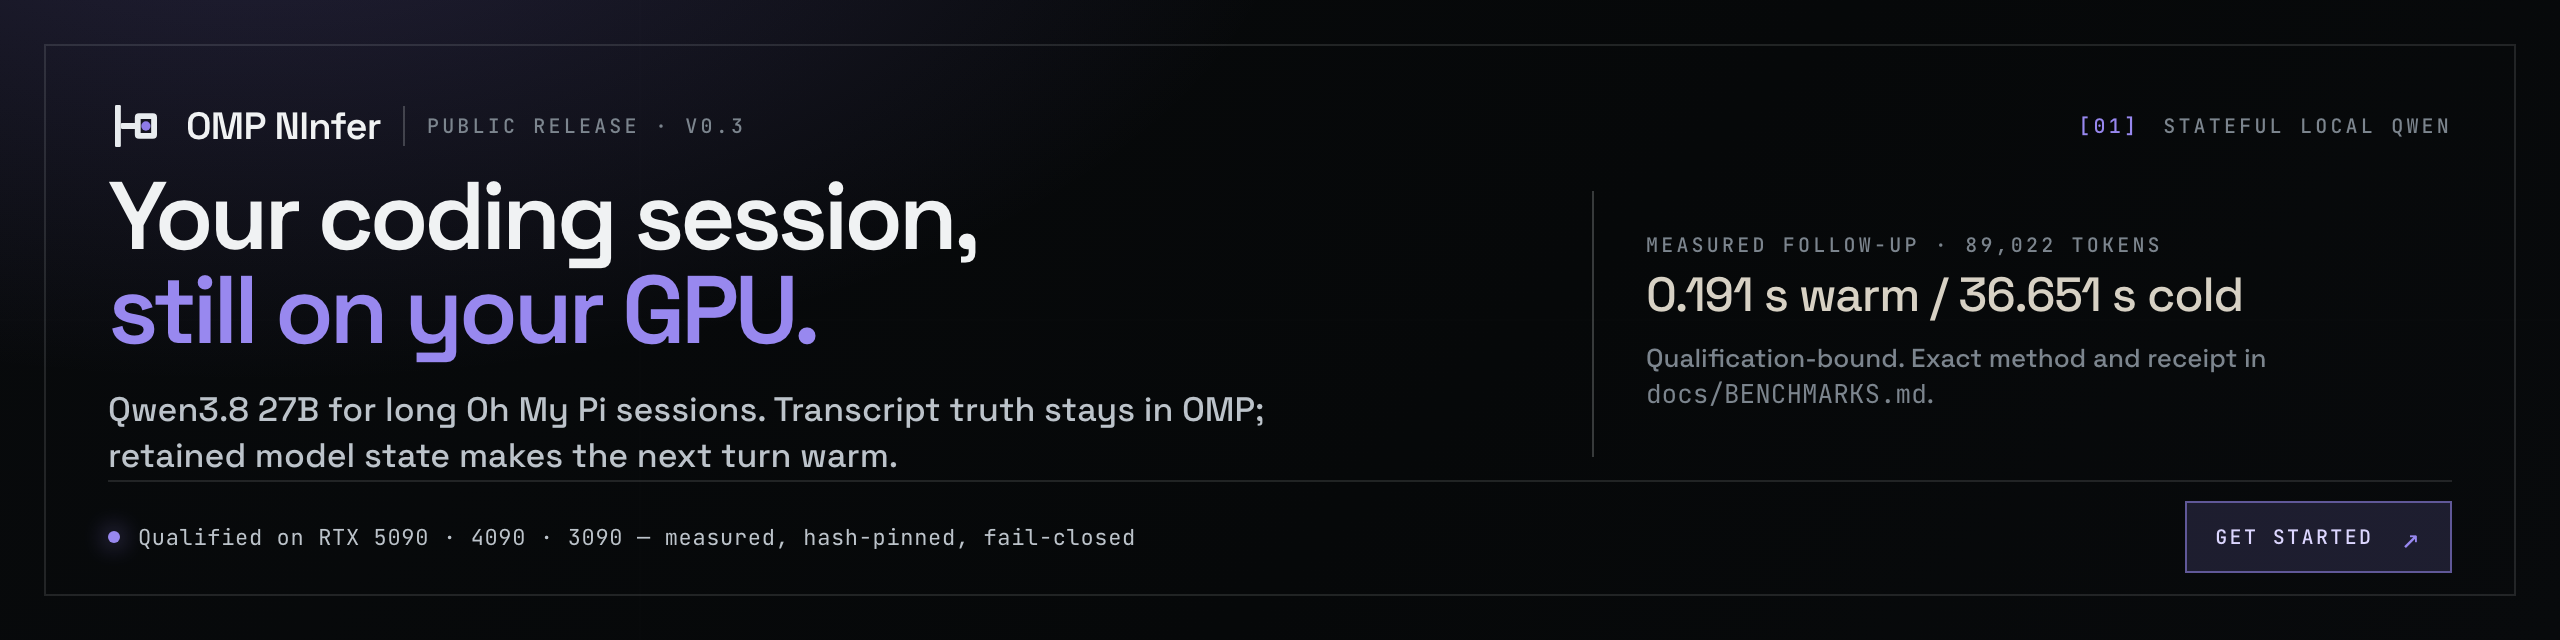
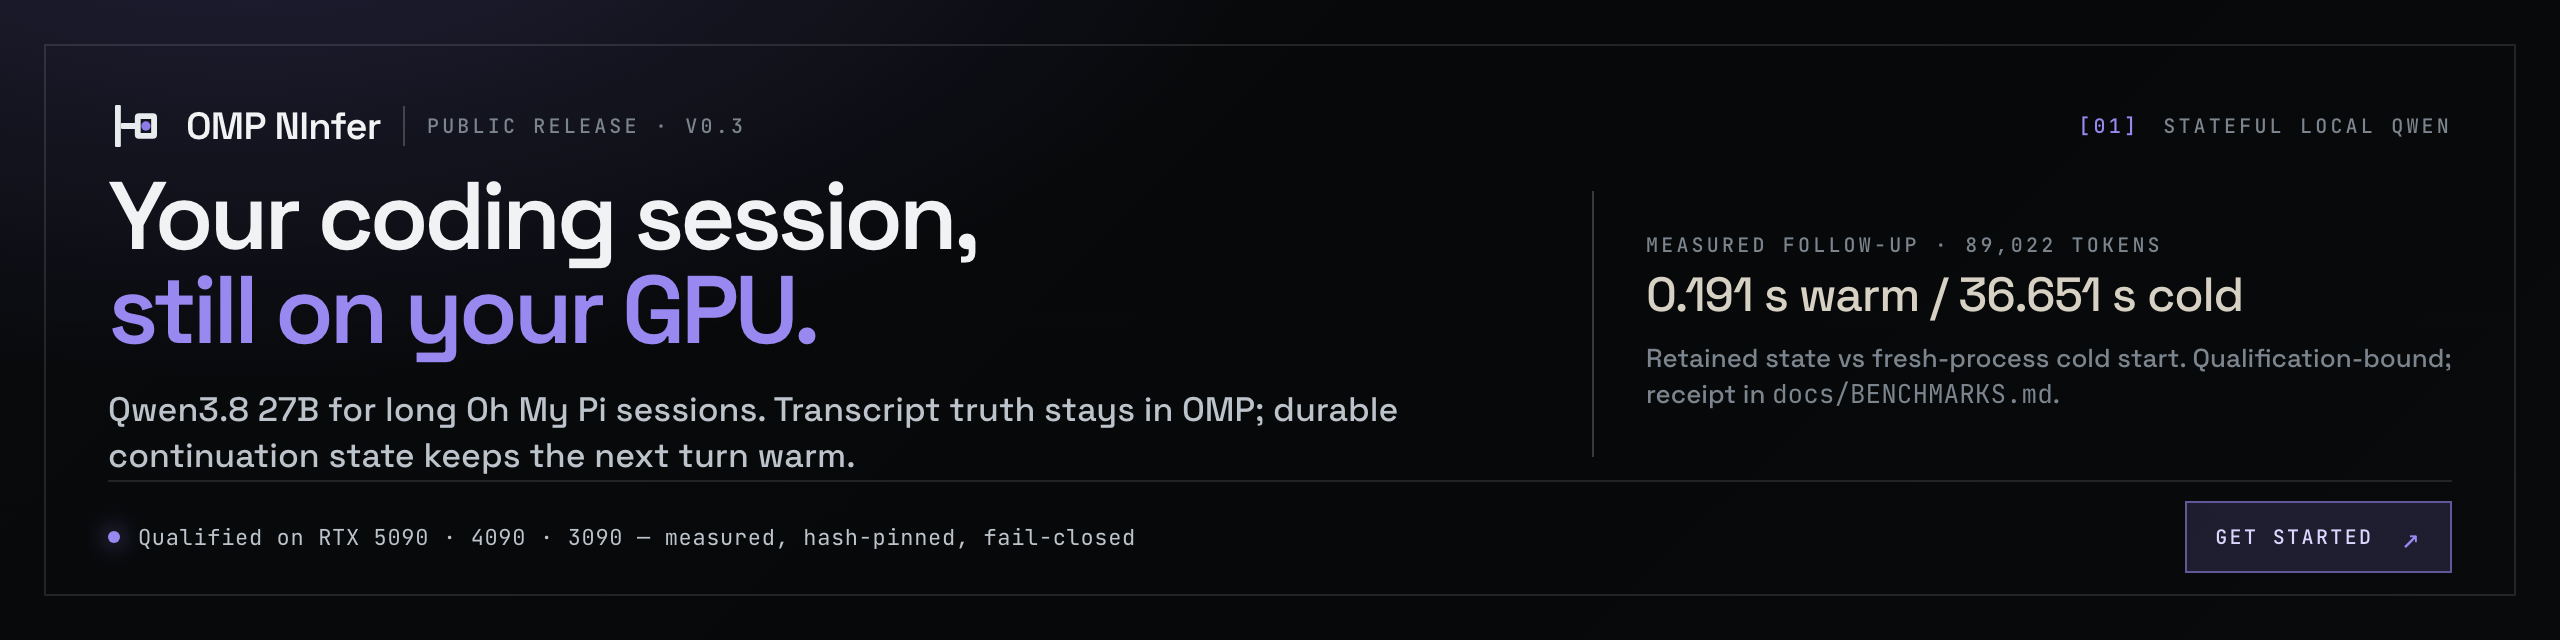
docs(positioning): claim durable continuation, concede in-process prefix caching

Changed region(s): [[0.625, 0.5312, 0.9688, 0.6562], [0.0312, 0.6875, 0.3438, 0.75], [0.5, 0.625, 0.5625, 0.6562]]

diff --git a/assets/chart-warm-cold.html b/assets/chart-warm-cold.html
@@ -36,12 +36,12 @@
     <div class="eyebrow">Lower is better</div>
   </div>
   <div class="main">
-    <div class="title">Warm follow-ups continue from retained GPU state.<span>Cold equivalents re-prefill the full session.</span></div>
+    <div class="title">Warm follow-ups continue from retained GPU state.<span>Cold = fresh process, no cache: the full session re-prefills.</span></div>
     <div class="session">
       <div class="bars">
         <div class="label">89,022-token session</div>
         <div class="row hot"><div class="bar warm" style="width: 6px;"></div><div class="value">0.191 s<small>warm · previous_response_id</small></div></div>
-        <div class="row"><div class="bar cold" style="width: 86%;"></div><div class="value">36.651 s<small>cold · full re-prefill</small></div></div>
+        <div class="row"><div class="bar cold" style="width: 86%;"></div><div class="value">36.651 s<small>cold · fresh process</small></div></div>
       </div>
       <div class="ratio"><strong>~192×</strong><span>faster first token</span></div>
     </div>
@@ -49,7 +49,7 @@
       <div class="bars">
         <div class="label">28,535-token session</div>
         <div class="row hot"><div class="bar warm" style="width: 4px;"></div><div class="value">0.126 s<small>warm · previous_response_id</small></div></div>
-        <div class="row"><div class="bar cold" style="width: 22.8%;"></div><div class="value">9.719 s<small>cold · full re-prefill</small></div></div>
+        <div class="row"><div class="bar cold" style="width: 22.8%;"></div><div class="value">9.719 s<small>cold · fresh process</small></div></div>
       </div>
       <div class="ratio"><strong>~77×</strong><span>faster first token</span></div>
     </div>

diff --git a/assets/og.html b/assets/og.html
@@ -37,7 +37,7 @@
     <div>
       <div class="eyebrow">Stateful Qwen3.8 for Oh My Pi</div>
       <h1>Continue the session.<br><span>Not the transcript.</span></h1>
-      <div class="subtitle">Long coding turns stay warm on a GPU you own. OMP keeps the truth; NInfer keeps the acceleration.</div>
+      <div class="subtitle">Durable session state on a GPU you own. OMP keeps the truth; NInfer keeps the continuation.</div>
     </div>
     <div class="signal" aria-label="Illustration of retained private model state">
       <div class="axis"></div><div class="ring r1"></div><div class="ring r2"></div><div class="ring r3"></div><div class="core"></div>
@@ -45,7 +45,7 @@
     </div>
   </div>
   <div class="bottom">
-    <div class="proof"><strong>0.191 s warm</strong><span>vs 36.651 s cold · one 89,022-token session</span></div>
+    <div class="proof"><strong>0.191 s warm</strong><span>vs 36.651 s cold start · one 89,022-token session</span></div>
     <div class="cta"><span>Get started</span><b>↗</b></div>
   </div>
 </div>

diff --git a/assets/banner.html b/assets/banner.html
@@ -30,12 +30,12 @@
   <div class="hero">
     <div>
       <h1>Your coding session,<br><span>still on your GPU.</span></h1>
-      <div class="promise">Qwen3.8 27B for long Oh My Pi sessions. Transcript truth stays in OMP; retained model state makes the next turn warm.</div>
+      <div class="promise">Qwen3.8 27B for long Oh My Pi sessions. Transcript truth stays in OMP; durable continuation state keeps the next turn warm.</div>
     </div>
     <div class="proof">
       <div class="eyebrow">Measured follow-up · 89,022 tokens</div>
       <strong>0.191 s warm  /  36.651 s cold</strong>
-      <p>Qualification-bound. Exact method and receipt in <span class="mono">docs/BENCHMARKS.md</span>.</p>
+      <p>Retained state vs fresh-process cold start. Qualification-bound; receipt in <span class="mono">docs/BENCHMARKS.md</span>.</p>
     </div>
   </div>
   <div class="bottom">

diff --git a/tests/test_public_numbers.py b/tests/test_public_numbers.py
@@ -15,8 +15,9 @@ class PublicNumbersTests(unittest.TestCase):
     def test_predecessor_prefix_hit_is_not_rebound_to_v02(self) -> None:
         readme = (ROOT / "README.md").read_text(encoding="utf-8")
         performance = (ROOT / "docs" / "PERFORMANCE.md").read_text(encoding="utf-8")
-        self.assertIn("predecessor v0.1 campaign", readme)
-        self.assertIn("not rebind that numeric result", readme)
+        if "37,591" in readme:
+            self.assertIn("predecessor v0.1 campaign", readme)
+            self.assertIn("not rebind that numeric result", readme)
         self.assertIn("not rebound as a v0.2 numeric claim", performance)
 
     @classmethod

diff --git a/README.md b/README.md
@@ -4,13 +4,14 @@
 
 # OMP NInfer
 
-**Stateful local Qwen for long OMP coding sessions.**
+**Durable session state on your GPU.**
 
 **Qualified on RTX 5090 · 4090 · 3090**
 
 If you use [Oh My Pi](https://github.com/can1357/oh-my-pi) and own an RTX 5090, 4090, or 3090,
-OMP NInfer keeps Qwen3.8 27B and the live session state on your GPU. Warm follow-ups continue from
-retained state instead of re-prefilling the full transcript.
+OMP NInfer keeps Qwen3.8 27B and your session's continuation state on your GPU — as an explicit,
+durable primitive, not a lucky prefix-cache hit. Follow-ups continue from state addressed by
+lineage, and on the native Windows lanes that state survives process restarts.
 
 **[Get started](docs/QUICKSTART.md)**
 
@@ -46,7 +47,7 @@ fail-closed instead of cloud fallback · every byte hash-pinned</sub>
 
 | What changes for you | Released evidence |
 | --- | --- |
-| Long-session follow-ups can start without a full re-prefill | Qualification-bound 89,022-token follow-up: **0.191 s warm vs 36.651 s cold** |
+| Retained state outlives the turn — the cold start is what you skip | Qualification-bound 89,022-token follow-up: **0.191 s warm (retained state) vs 36.651 s cold (fresh process, no cache)** |
 | Interactive output is fast | **240.30 tok/s** decode on the qualified RTX 5090 profile |
 | Long coding sessions fit | Exact retrieval at a **130,048-token** prompt; 131,072-token ceiling |
 | The route does not escape to cloud | Loopback-only, bearer-authenticated, fail-closed; acceptance-tested |
@@ -69,23 +70,44 @@ serving, or generic OpenAI-compatible inference.
 > latest published release and its exact manifest/profile.
 > Details: [release status](docs/RELEASES.md) · [compatibility matrix](docs/COMPATIBILITY.md).
 
+## What this is — and isn't
+
+A live [ninfer](https://github.com/Neroued/ninfer) or llama.cpp process with prefix caching
+already avoids recomputing an append-only prefix — the engine this project ships does it too
+(`prefix_reuse` is enabled in every shipped profile). If a warm in-process cache on a live server
+is all you need, that works today without OMP NInfer.
+
+What this project adds is continuation as an **explicit, transactional, durable** primitive
+rather than an implicit longest-prefix match. OMP tracks the Responses lineage end to end —
+`previous_response_id`, forks, rollback — and on the RTX 4090 and 3090 native Windows lanes the
+continuation (session state plus its required KV) is checkpointed to disk and restored after
+process death: [102,075 tokens restored on the
+4090](releases/v0.2.0-beta.1/qualification/rtx4090.json), [310 MB checkpoint restore on the
+3090](docs/measurements/2026-08-30-rtx3090-parity.json). A prefix cache cannot outlive its
+process; a checkpoint can.
+
+Next on the [roadmap](ROADMAP.md): portable checkpoints — store them on shared storage, restore
+the session on another compatible machine — which in-process caches structurally cannot do.
+
 ## Why this exists
 
 Serious OMP coding sessions run long: 100K-token transcripts, thinking, tool calls, images. Routed
 to a cloud provider, every one of those tokens is metered and every file leaves your machine.
-Routed to a typical local OpenAI-compatible server, the API is stateless — each turn re-sends and
-re-prefills the whole transcript, and reuse of prior computation is a best-effort cache guess.
+Routed to a typical local OpenAI-compatible server, the API is stateless — each turn re-sends the
+whole transcript, and while a live server's prefix cache usually avoids recomputing an append-only
+prefix, that reuse is an implicit longest-prefix guess that dies with the process.
 
 OMP NInfer ships the third option as a small set of qualified lanes — OMP, the
 [NInfer](https://github.com/Neroued/ninfer) engine, and one pinned Qwen3.8 27B artifact on an
 RTX 5090, RTX 4090, or RTX 3090 — with three properties the exact qualified releases do not
 give you together elsewhere:
 
-1. **Session state lives on your GPU.** OMP drives NInfer through stateful OpenAI Responses
-   (`previous_response_id`). A follow-up turn continues from retained GPU state instead of
-   re-prefilling the session. The predecessor v0.1 campaign observed a 37,591-token prefix hit, but
-   v0.2 does not rebind that numeric result. OMP commits its transcript before
-   advancing provider state, so losing the cache degrades to a replay, never a broken session.
+1. **Continuation is explicit and durable, not guessed.** OMP drives NInfer through stateful
+   OpenAI Responses (`previous_response_id`): continuation is addressed by transactional lineage —
+   forks and rollback qualified — instead of inferred by longest-prefix matching, and on the
+   native Windows lanes the continuation is checkpointed and survives process restarts. OMP
+   commits its transcript before advancing provider state, so losing retained state degrades to a
+   replay, never a broken session.
 2. **Private and fail-closed.** Both endpoints bind loopback only; the route is
    bearer-authenticated; the shipped OMP configuration disables model fallback. When your GPU is
    unreachable, the turn fails with an error — it is never silently answered by a cloud model.
@@ -174,7 +196,7 @@ why no second gateway sits between OMP and NInfer: [Related work](docs/RELATED_W
 | | OMP NInfer | [Ollama](https://ollama.com) | [LM Studio](https://lmstudio.ai) | [llama.cpp server](https://github.com/ggml-org/llama.cpp/tree/master/tools/server) | [vLLM](https://github.com/vllm-project/vllm) |
 | --- | --- | --- | --- | --- | --- |
 | What it is | A small closed set of qualified OMP + runtime + model + GPU combinations with receipts | General local runtime with a large model library | Desktop app plus headless daemon with a large model catalog | General GGUF serving with the broadest hardware reach | High-throughput general serving engine |
-| Session state across OMP turns | Stateful Responses owned end to end: transcript commits first, GPU-resident baseline advances second; survives OMP exit/resume; forks qualified | Stateless per request; transcript re-sent; internal caching best-effort | Stateless per request; chat state lives in the client | Stateless per request; per-slot prefix cache reuses matching prefixes | Stateless core with automatic prefix caching; separate Agentic API gateway adds server-side state |
+| Session state across OMP turns | Stateful Responses owned end to end: transcript commits first, GPU-resident baseline advances second; survives OMP exit/resume; forks qualified | Stateless per request; transcript re-sent; in-process prefix reuse avoids recomputing matching prefixes | Stateless per request; chat state lives in the client | Stateless per request; per-slot prefix cache reuses matching prefixes | Stateless core with automatic prefix caching; separate Agentic API gateway adds server-side state |
 | Speculative decoding on the shipped model | Profile-specific: MTP3 on the 5090 and 3090 lanes, MTP0 on the 4090 lane | Model/config dependent | Optional draft-model setups, backend-dependent | Optional draft/ngram setups | Optional |
 | Vision, tools, thinking | Qualified together in one profile | Varies by model | Varies by model; tools and structured output documented | Varies by model and build | Varies by model |
 | Release discipline | Model SHA-256, image OCI digest, SBOM, client checksums, one ready manifest | Rolling releases, mutable tags | Rolling desktop releases | Rolling builds | Rolling releases |

diff --git a/docs/RELATED_WORK.md b/docs/RELATED_WORK.md
@@ -82,6 +82,9 @@ breadth is a feature for a different product boundary, not a deficiency.
 
 ## Prefix and KV reuse
 
+- [Neroued/ninfer](https://github.com/Neroued/ninfer) itself ships in-process prefix reuse
+  (`prefix_reuse`, enabled in every profile this project ships): a live process avoids
+  recomputing an append-only prefix with no OMP NInfer involvement.
 - [vLLM Automatic Prefix Caching](https://docs.vllm.ai/en/latest/features/automatic_prefix_caching/)
   reuses matching prefix blocks inside vLLM.
 - [LMCache](https://github.com/LMCache/LMCache) extends KV reuse and movement across inference
@@ -91,11 +94,14 @@ breadth is a feature for a different product boundary, not a deficiency.
 - [llama.cpp server](https://github.com/ggml-org/llama.cpp/tree/master/tools/server) exposes slots and
   cache-oriented local serving behavior.
 
-Those systems establish extensive KV/prefix-cache prior art. OMP NInfer's relevant distinction is
-ownership and commit ordering: OMP publishes the transcript before committing a provider baseline;
-NInfer's retained state is an acceleration that may be discarded without losing the conversation.
-The user-facing claim is therefore “stop re-prefilling the same long coding session every turn,” not
-“invent persistent KV” or “make inference 100× faster.”
+Those systems establish extensive KV/prefix-cache prior art, and they fully cover the
+live-process append-only case. OMP NInfer's relevant distinction is that continuation is
+explicit, transactional, and durable rather than an implicit longest-prefix match: OMP publishes
+the transcript before committing a provider baseline, lineage (forks, rollback) is addressable
+through `previous_response_id`, and on the native Windows lanes the continuation is checkpointed
+so it survives process death — which an in-process cache structurally cannot. The user-facing
+claim is therefore “keep a long coding session durable and instantly resumable on a GPU you
+own,” not “no re-prefill,” and not “invent persistent KV” or “make inference 100× faster.”
 
 ## Distributed inference control planes
 

diff --git a/BRAND.md b/BRAND.md
@@ -17,7 +17,13 @@ stay retired. Do not reuse them.
 - Repository: `alphastorm/omp-ninfer`
 - Display name: **OMP NInfer** (capital N, capital I)
 - Alternate lockup: **OMP × NInfer** — the × is Local violet, weight 500
-- Tagline: **Stateful local Qwen for long OMP coding sessions.**
+- Tagline: **Durable session state on your GPU.**
+- Positioning rule: never claim "no re-prefill" as the value. In-process prefix caching
+  (upstream ninfer `prefix_reuse`, llama.cpp prompt cache, vLLM APC) already covers the
+  live-process append-only case and is conceded as prior art. The product claim is explicit,
+  transactional, durable continuation — checkpoints that survive process death, portability as
+  the trajectory. Warm/cold figures are always captioned retained state versus fresh-process
+  cold start, never versus an ordinary follow-up.
 - Status grammar: when lane status is stated, write **"Qualified on RTX 5090 · 4090 · 3090"**.
   When install authority matters, bind it to the current ready release (`v0.3.0`) instead of
   restating per-lane caveats inline; per-lane evidence lives in the manifest and benchmarks.
@@ -160,13 +166,13 @@ be labelled as such in the media provenance file; provenance for every demo live
 
 # OMP NInfer
 
-**Stateful local Qwen for long OMP coding sessions.**
+**Durable session state on your GPU.**
 
 **Qualified on RTX 5090 · 4090 · 3090**
 
 If you use [Oh My Pi](https://github.com/can1357/oh-my-pi) and own a qualified RTX card,
-OMP NInfer keeps Qwen3.8 27B and the live session state on your GPU. Warm follow-ups continue from
-retained state instead of re-prefilling the full transcript.
+OMP NInfer keeps Qwen3.8 27B and your session's continuation state on your GPU — as an explicit,
+durable primitive, not a lucky prefix-cache hit.
 
 **[Get started](docs/QUICKSTART.md)**
 

diff --git a/docs/media/README.md b/docs/media/README.md
@@ -91,7 +91,7 @@ lane was still preview-only.
[8 lines of base64/hex data omitted]

diff --git a/docs/BENCHMARKS.md b/docs/BENCHMARKS.md
@@ -86,7 +86,8 @@ Durable process-restart continuation is a native Windows lane property (tables a
 
 v0.3.0 ships checkpoint-backed session durability on the RTX 4090 and RTX 3090 native Windows
 lanes (DirectStorage): a follow-up continues from restored state after a process restart instead
-of re-prefilling the transcript, and each lane's restart gate binds the exact observed
+of rebuilding the session cold — exactly the delta the warm/cold row measures — and each lane's
+restart gate binds the exact observed
 restoration above. The RTX 5090 container makes no restart-continuation claim — its response
 store is process-local by design and its recovery path is OMP transcript replay. Upstream,
 [UDPSendToFailed/ninfer-4090](https://github.com/UDPSendToFailed/ninfer-4090) measured its
